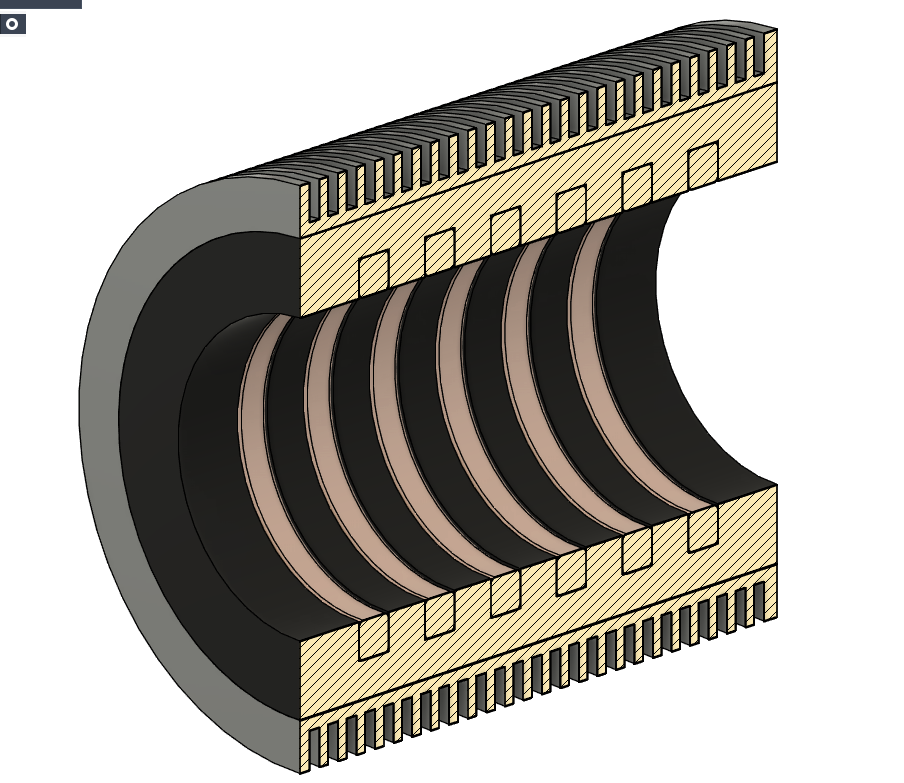
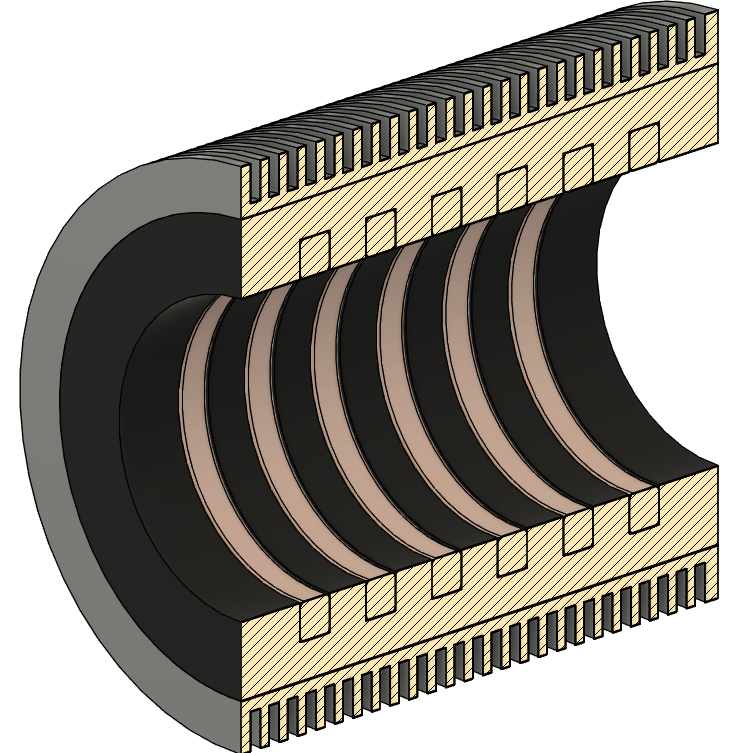
Added figure

diff --git a/README.md b/README.md
@@ -45,6 +45,12 @@ The project will fulfill this goal by using readily available materials and tool
 
 An `ironless tubular linear` motor featuring a passive radial `6061` aluminium heat sink potted around the enameled copper slots. Due to the low electrical frequency of ~`50 Hz` at a linear velocity of `1 m/s`, eddy currents are a second-order effect compared to removing heat from the slots. The stator is a carbon fibre tube with a pole arrangement of `(N-S|S-N)`. The motor is intended to be used with `12–24 V` supplies.
 
+<div align="center">
+  <img src="05_media\03_prototype_beta\rev_3\potting_conceptual_model.png" alt="Conceptual design of armature" width="700">
+  <br>
+  <em>Conceptual design of beta armature design. </em>
+</div>
+
 > See the [`motor design notes`](/02_motors/01_prototype_beta/rev_2/readme.md) for the full electromagnetic and thermal rationale of `Conceptual Design Rev 2`.
 
 ---
@@ -56,7 +62,7 @@ An `ironless planar linear` motor with a polylactic acid (PLA) armature featurin
 <div align="center">
   <img src="05_media/02_prototype_alpha/02_experimental/side_view_on_test_stand.jpg" alt="side view on test stand" width="700">
   <br>
-  <em>Alpha: Side view on test stand</em>
+  <em>Side view on alpha test stand.</em>
 </div>
 
 <br>
